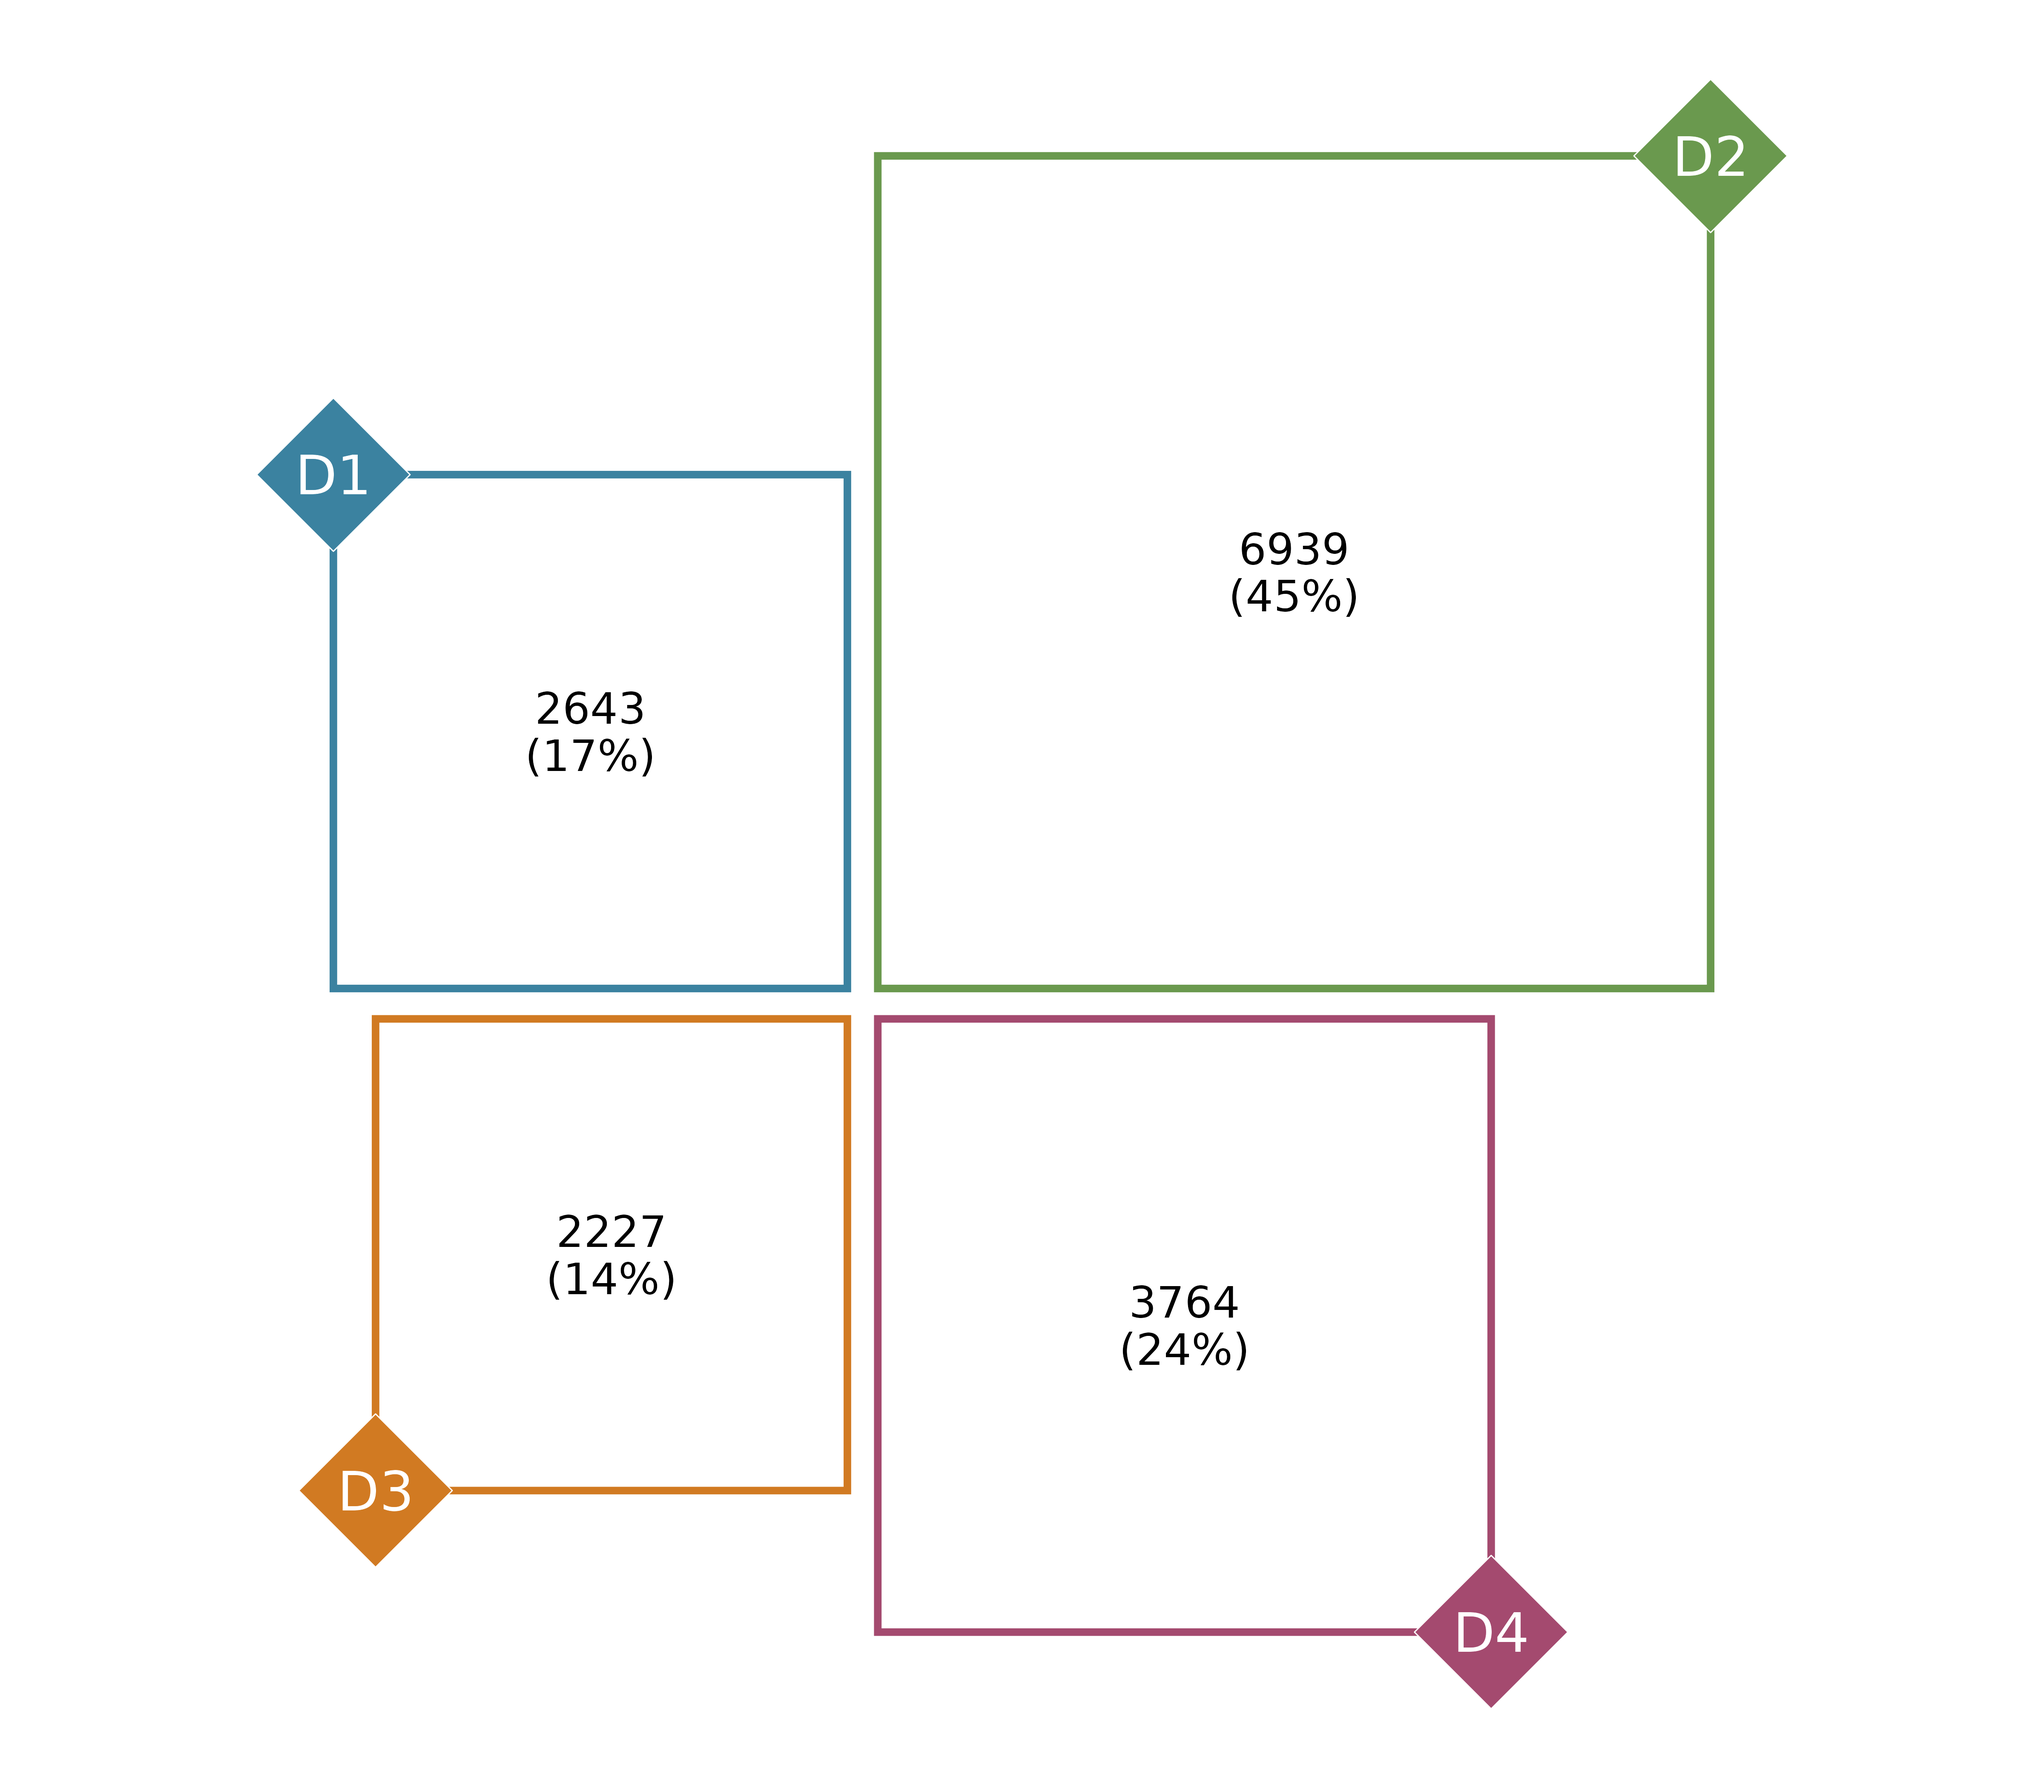
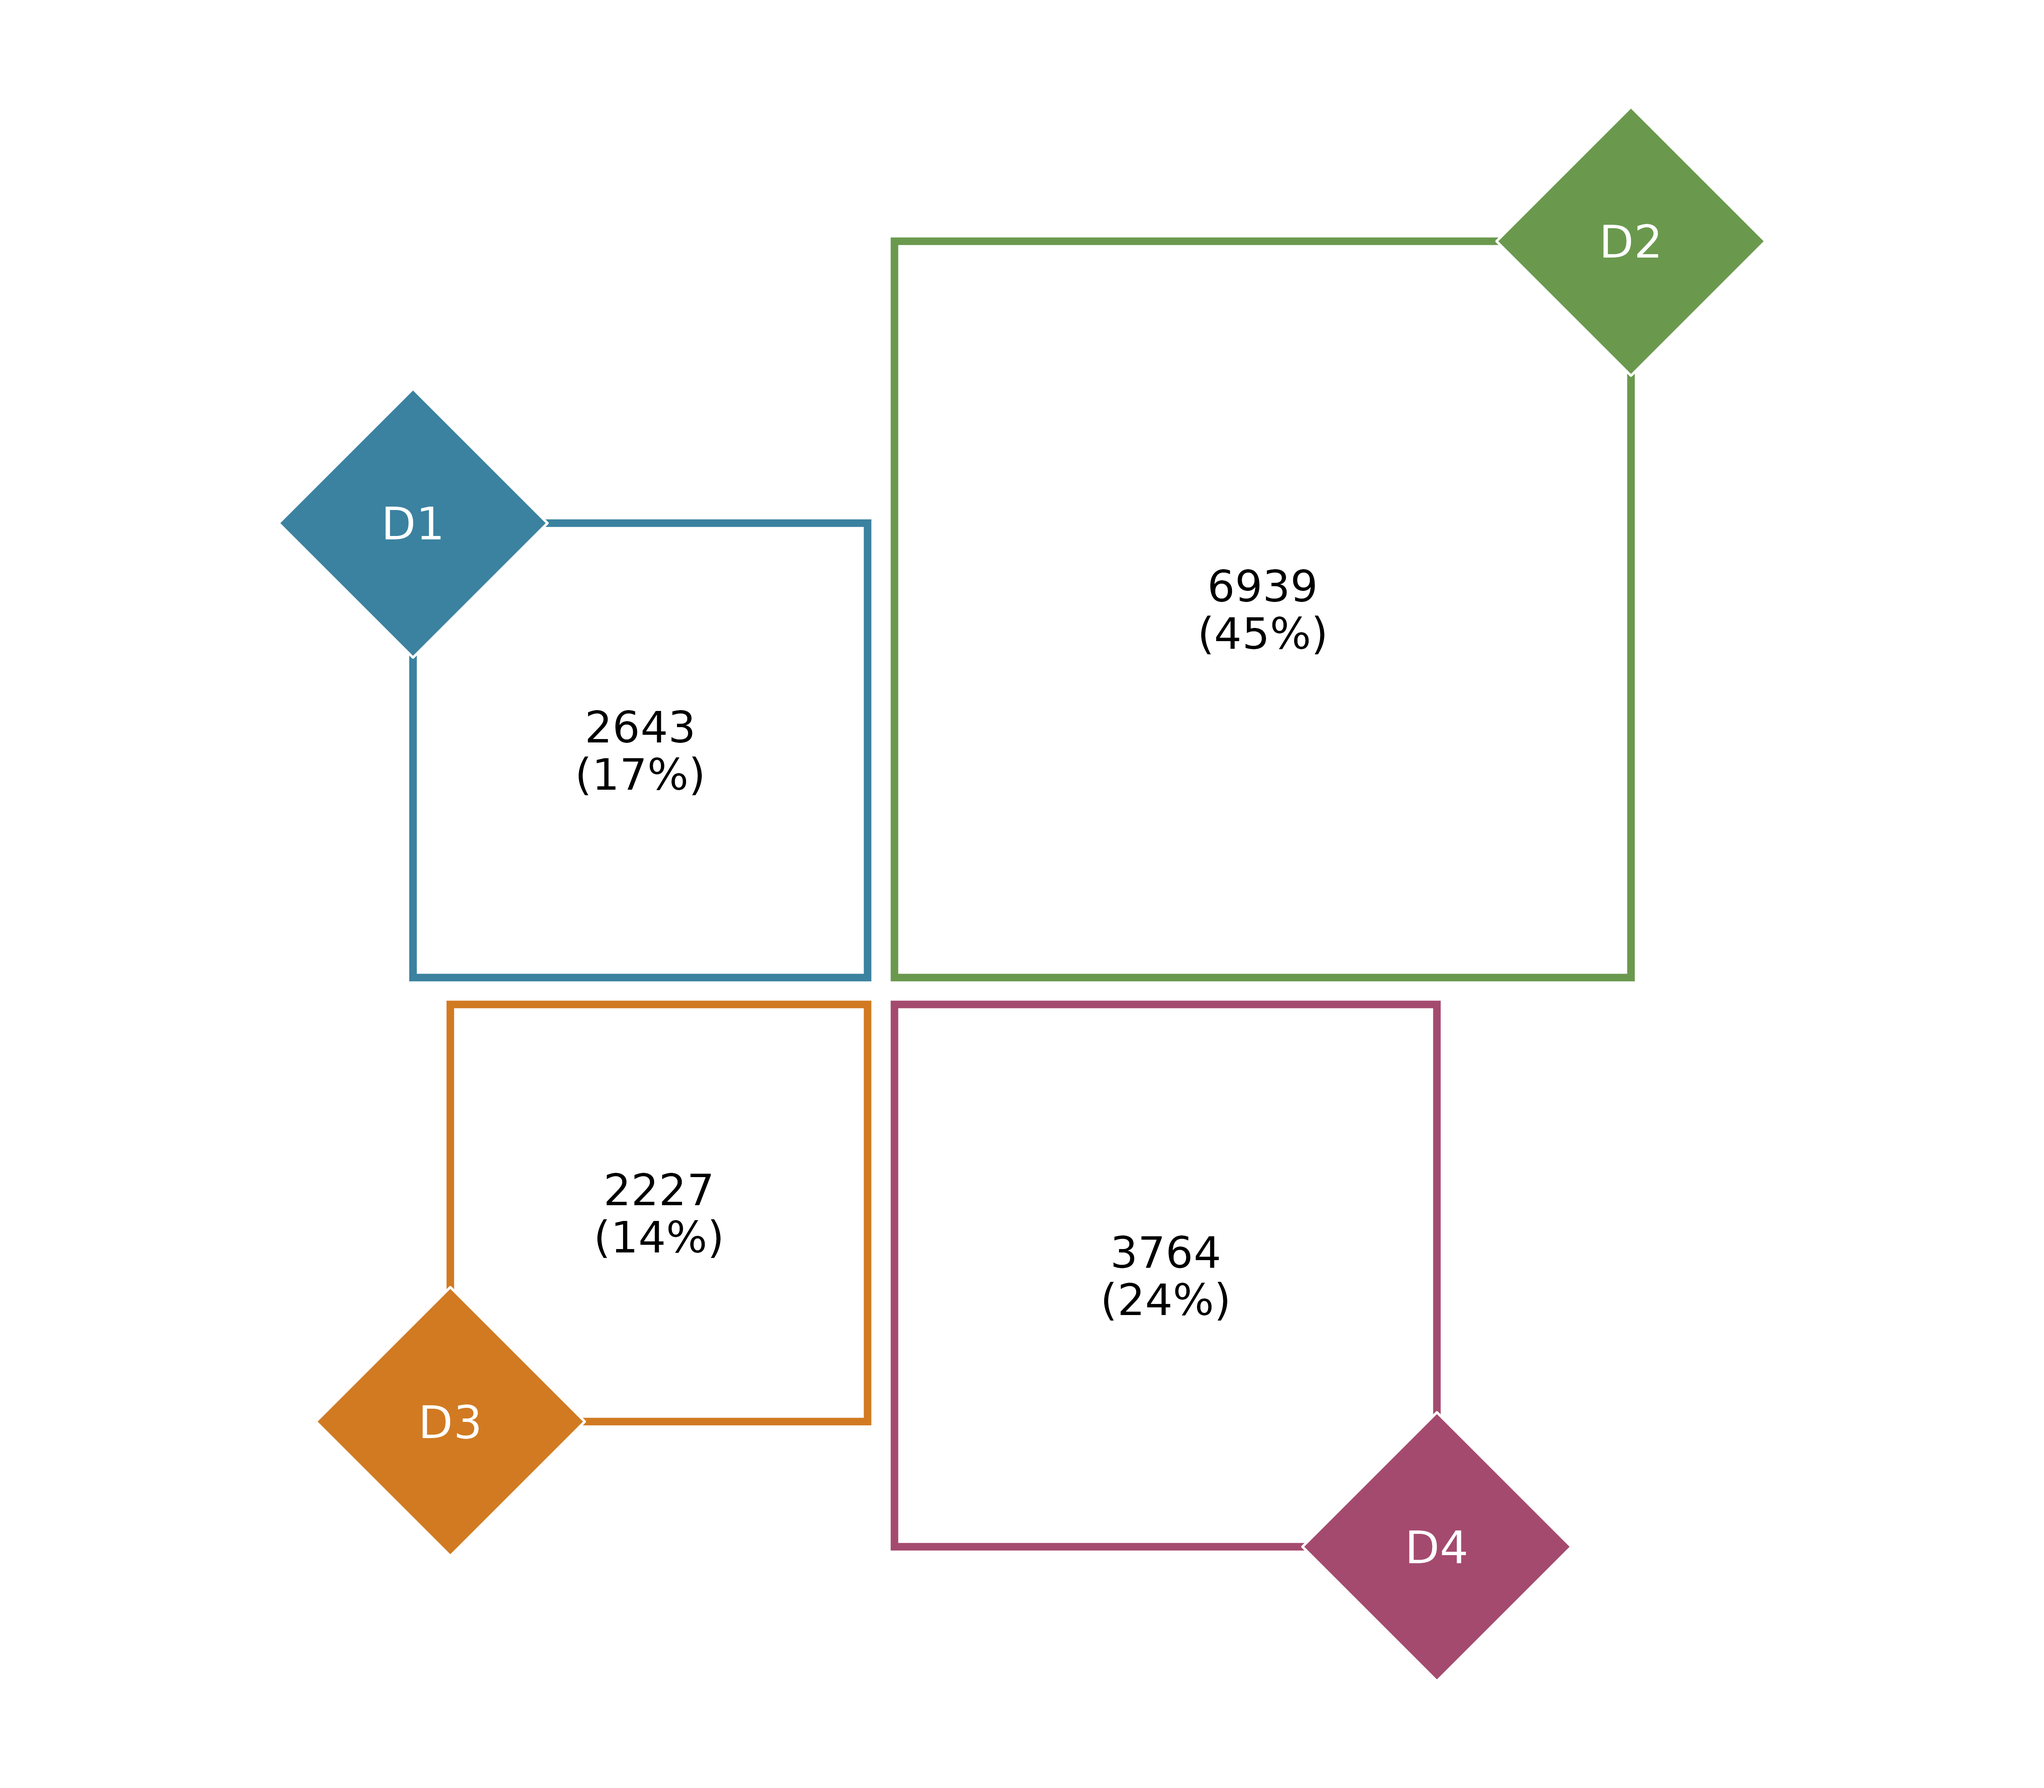
Deploying to gh-pages from @ hriisalu/rectangler@0b32b7d14e48fec1da5c1bda42f93e3f880686ad 🚀

diff --git a/articles/rectangler.html b/articles/rectangler.html
@@ -609,7 +609,7 @@ horizontal and vertical position.</p>
 <span>  <span class="op">)</span> <span class="op"><a href="https://magrittr.tidyverse.org/reference/pipe.html" class="external-link">%&gt;%</a></span></span>
 <span>  <span class="fu"><a href="../reference/rect_shape_label.html">rect_shape_label</a></span><span class="op">(</span></span>
 <span>    label_col <span class="op">=</span> <span class="st">"label"</span>,</span>
-<span>    colour <span class="op">=</span> <span class="st">"white"</span></span>
+<span>    colour <span class="op">=</span> <span class="st">"black"</span></span>
 <span>  <span class="op">)</span></span></code></pre></div>
 <p><img src="figures/vignette-shape-types-1.png" class="r-plt" alt="" width="45%"><img src="figures/vignette-shape-types-2.png" class="r-plt" alt="" width="45%"></p>
 </div>
@@ -650,11 +650,15 @@ mean the same thing.</p>
 <div class="section level2">
 <h2 id="controlling-size-spacing-and-proportions">Controlling size, spacing and proportions<a class="anchor" aria-label="anchor" href="#controlling-size-spacing-and-proportions"></a>
 </h2>
-<p>Many visual arguments in <code>rectangler</code> use relative
-sizes.</p>
-<p>A value of <code>1</code> usually means the default size. Values
-below <code>1</code> make an element smaller, while values above
+<p>Size arguments in <code>rectangler</code> are relative to their
+default size.</p>
+<p>A value of <code>1</code> means the default size. Values below
+<code>1</code> make an element smaller, while values above
 <code>1</code> make it larger.</p>
+<p>For example, <code>size = 0.5</code> makes an element half its
+default size and <code>size = 2</code> makes it twice as large.</p>
+<p>This applies to label size, shape size, shape-label size and
+annotation text size. Border widths use the same relative principle.</p>
 <div class="section level3">
 <h3 id="label-size">Label size<a class="anchor" aria-label="anchor" href="#label-size"></a>
 </h3>
@@ -698,7 +702,7 @@ size.</p>
 <span>  <span class="op">)</span> <span class="op"><a href="https://magrittr.tidyverse.org/reference/pipe.html" class="external-link">%&gt;%</a></span></span>
 <span>  <span class="fu"><a href="../reference/rect_shape.html">rect_shape</a></span><span class="op">(</span></span>
 <span>    position <span class="op">=</span> <span class="st">"corner"</span>,</span>
-<span>    size <span class="op">=</span> <span class="fl">2.5</span>,</span>
+<span>    size <span class="op">=</span> <span class="fl">0.8</span>,</span>
 <span>    fill_col <span class="op">=</span> <span class="st">"shape_fill"</span>,</span>
 <span>    border_colour <span class="op">=</span> <span class="st">"white"</span></span>
 <span>  <span class="op">)</span></span>
@@ -711,7 +715,7 @@ size.</p>
 <span>  <span class="op">)</span> <span class="op"><a href="https://magrittr.tidyverse.org/reference/pipe.html" class="external-link">%&gt;%</a></span></span>
 <span>  <span class="fu"><a href="../reference/rect_shape.html">rect_shape</a></span><span class="op">(</span></span>
 <span>    position <span class="op">=</span> <span class="st">"corner"</span>,</span>
-<span>    size <span class="op">=</span> <span class="fl">5</span>,</span>
+<span>    size <span class="op">=</span> <span class="fl">2</span>,</span>
 <span>    fill_col <span class="op">=</span> <span class="st">"shape_fill"</span>,</span>
 <span>    border_colour <span class="op">=</span> <span class="st">"white"</span></span>
 <span>  <span class="op">)</span></span></code></pre></div>
@@ -737,7 +741,7 @@ without being clipped.</p>
 <span>  <span class="fu"><a href="../reference/rect_annotation.html">rect_annotation</a></span><span class="op">(</span></span>
 <span>    label_col <span class="op">=</span> <span class="st">"annotation"</span>,</span>
 <span>    position <span class="op">=</span> <span class="st">"horizontal"</span>,</span>
-<span>    size <span class="op">=</span> <span class="fl">0.8</span>,</span>
+<span>    size <span class="op">=</span> <span class="fl">1</span>,</span>
 <span>    space <span class="op">=</span> <span class="fl">1.5</span></span>
 <span>  <span class="op">)</span></span></code></pre></div>
 <p><img src="figures/vignette-compare-annotation-space-1.png" class="r-plt" alt="" width="65%"></p>
@@ -763,7 +767,7 @@ without being clipped.</p>
 <span>  <span class="fu"><a href="../reference/rect_annotation.html">rect_annotation</a></span><span class="op">(</span></span>
 <span>    label_col <span class="op">=</span> <span class="st">"annotation"</span>,</span>
 <span>    position <span class="op">=</span> <span class="st">"horizontal"</span>,</span>
-<span>    size <span class="op">=</span> <span class="fl">0.8</span>,</span>
+<span>    size <span class="op">=</span> <span class="fl">0.7</span>,</span>
 <span>    space <span class="op">=</span> <span class="fl">4.5</span></span>
 <span>  <span class="op">)</span></span></code></pre></div>
 <p><img src="figures/vignette-compare-annotation-long-space-1.png" class="r-plt" alt="" width="65%"></p>
@@ -774,7 +778,8 @@ without being clipped.</p>
 <p><code>gap</code> controls the space between rectangles in the
 constructor.</p>
 <div class="sourceCode" id="cb31"><pre class="downlit sourceCode r">
-<code class="sourceCode R"><span><span class="fu"><a href="../reference/rect_plot4.html">rect_plot4</a></span><span class="op">(</span><span class="va">mydata</span>, value_col <span class="op">=</span> <span class="st">"value"</span>, gap <span class="op">=</span> <span class="fl">0.02</span><span class="op">)</span> <span class="op"><a href="https://magrittr.tidyverse.org/reference/pipe.html" class="external-link">%&gt;%</a></span></span>
+<code class="sourceCode R"><span></span>
+<span><span class="fu"><a href="../reference/rect_plot4.html">rect_plot4</a></span><span class="op">(</span><span class="va">mydata</span>, value_col <span class="op">=</span> <span class="st">"value"</span>, gap <span class="op">=</span> <span class="fl">0.05</span><span class="op">)</span> <span class="op"><a href="https://magrittr.tidyverse.org/reference/pipe.html" class="external-link">%&gt;%</a></span></span>
 <span>  <span class="fu"><a href="../reference/rect_style.html">rect_style</a></span><span class="op">(</span></span>
 <span>    fill <span class="op">=</span> <span class="st">"white"</span>,</span>
 <span>    border_colour_col <span class="op">=</span> <span class="st">"border"</span>,</span>
@@ -870,7 +875,7 @@ outer plotting area.</p>
 <span>  <span class="fu"><a href="../reference/rect_shape.html">rect_shape</a></span><span class="op">(</span></span>
 <span>    position <span class="op">=</span> <span class="st">"corner"</span>,</span>
 <span>    shape <span class="op">=</span> <span class="fl">23</span>,</span>
-<span>    size <span class="op">=</span> <span class="fl">4</span>,</span>
+<span>    size <span class="op">=</span> <span class="fl">2</span>,</span>
 <span>    fill_col <span class="op">=</span> <span class="st">"shape_fill"</span>,</span>
 <span>    border_colour <span class="op">=</span> <span class="st">"white"</span></span>
 <span>  <span class="op">)</span> <span class="op"><a href="https://magrittr.tidyverse.org/reference/pipe.html" class="external-link">%&gt;%</a></span></span>
@@ -940,6 +945,9 @@ as needed.</p>
 data column. For direct vectors, use either one value or exactly one
 value per rectangle. For arguments with a <code>*_col</code> version,
 supply either the direct value or the column name, not both.</p>
+<p>For size arguments, <code>1</code> means the default size, values
+below <code>1</code> make the element smaller, and values above
+<code>1</code> make it larger.</p>
 </div>
   </main><aside class="col-md-3"><nav id="toc" aria-label="Table of contents"><h2>On this page</h2>
     </nav></aside>

diff --git a/index.html b/index.html
@@ -87,6 +87,7 @@
 </h2>
 <p>Every Rectangler graphic starts with a <strong>constructor</strong>, which creates the layout. Numeric values determine rectangle areas: larger values create larger rectangles.</p>
 <p>Values can be supplied directly with <code>value</code> or from a data column with <code>value_col</code>. Layers then add styling, labels, shapes and annotations.</p>
+<p>Size-related arguments are relative to their defaults: <code>1</code> means the default size, values below <code>1</code> make an element smaller, and values above <code>1</code> make it larger.</p>
 <div class="sourceCode" id="cb3"><pre class="downlit sourceCode r">
 <code class="sourceCode R"><span><span class="fu"><a href="reference/rect_plot4.html">rect_plot4</a></span><span class="op">(</span><span class="va">data</span>, value_col <span class="op">=</span> <span class="st">"value"</span><span class="op">)</span> <span class="op"><a href="https://magrittr.tidyverse.org/reference/pipe.html" class="external-link">%&gt;%</a></span></span>
 <span>  <span class="fu"><a href="reference/rect_style.html">rect_style</a></span><span class="op">(</span><span class="op">)</span> <span class="op"><a href="https://magrittr.tidyverse.org/reference/pipe.html" class="external-link">%&gt;%</a></span></span>

diff --git a/articles/rectangler.md b/articles/rectangler.md
@@ -645,7 +645,7 @@ rect_plot4(mydata, value_col = "value") %>%
   ) %>%
   rect_shape_label(
     label_col = "label",
-    colour = "white"
+    colour = "black"
   )
 ```
 
@@ -693,10 +693,16 @@ rect_annotation(position = "h")
 
 ## Controlling size, spacing and proportions
 
-Many visual arguments in `rectangler` use relative sizes.
+Size arguments in `rectangler` are relative to their default size.
 
-A value of `1` usually means the default size. Values below `1` make an
-element smaller, while values above `1` make it larger.
+A value of `1` means the default size. Values below `1` make an element
+smaller, while values above `1` make it larger.
+
+For example, `size = 0.5` makes an element half its default size and
+`size = 2` makes it twice as large.
+
+This applies to label size, shape size, shape-label size and annotation
+text size. Border widths use the same relative principle.
 
 ### Label size
 
@@ -743,7 +749,7 @@ rect_plot4(mydata, value_col = "value") %>%
   ) %>%
   rect_shape(
     position = "corner",
-    size = 2.5,
+    size = 0.8,
     fill_col = "shape_fill",
     border_colour = "white"
   )
@@ -756,7 +762,7 @@ rect_plot4(mydata, value_col = "value") %>%
   ) %>%
   rect_shape(
     position = "corner",
-    size = 5,
+    size = 2,
     fill_col = "shape_fill",
     border_colour = "white"
   )
@@ -786,7 +792,7 @@ rect_plot4(mydata, value_col = "value") %>%
   rect_annotation(
     label_col = "annotation",
     position = "horizontal",
-    size = 0.8,
+    size = 1,
     space = 1.5
   )
 ```
@@ -816,7 +822,7 @@ rect_plot4(mydata_space, value_col = "value") %>%
   rect_annotation(
     label_col = "annotation",
     position = "horizontal",
-    size = 0.8,
+    size = 0.7,
     space = 4.5
   )
 ```
@@ -829,7 +835,8 @@ rect_plot4(mydata_space, value_col = "value") %>%
 
 ``` r
 
-rect_plot4(mydata, value_col = "value", gap = 0.02) %>%
+
+rect_plot4(mydata, value_col = "value", gap = 0.05) %>%
   rect_style(
     fill = "white",
     border_colour_col = "border",
@@ -934,7 +941,7 @@ rect_plot4(mydata, value_col = "value") %>%
   rect_shape(
     position = "corner",
     shape = 23,
-    size = 4,
+    size = 2,
     fill_col = "shape_fill",
     border_colour = "white"
   ) %>%
@@ -1009,3 +1016,6 @@ Supply settings as a single value, one value per rectangle or from a
 data column. For direct vectors, use either one value or exactly one
 value per rectangle. For arguments with a `*_col` version, supply either
 the direct value or the column name, not both.
+
+For size arguments, `1` means the default size, values below `1` make
+the element smaller, and values above `1` make it larger.

diff --git a/index.md b/index.md
@@ -56,6 +56,10 @@ create larger rectangles.
 Values can be supplied directly with `value` or from a data column with
 `value_col`. Layers then add styling, labels, shapes and annotations.
 
+Size-related arguments are relative to their defaults: `1` means the
+default size, values below `1` make an element smaller, and values above
+`1` make it larger.
+
 ``` r
 
 rect_plot4(data, value_col = "value") %>%
